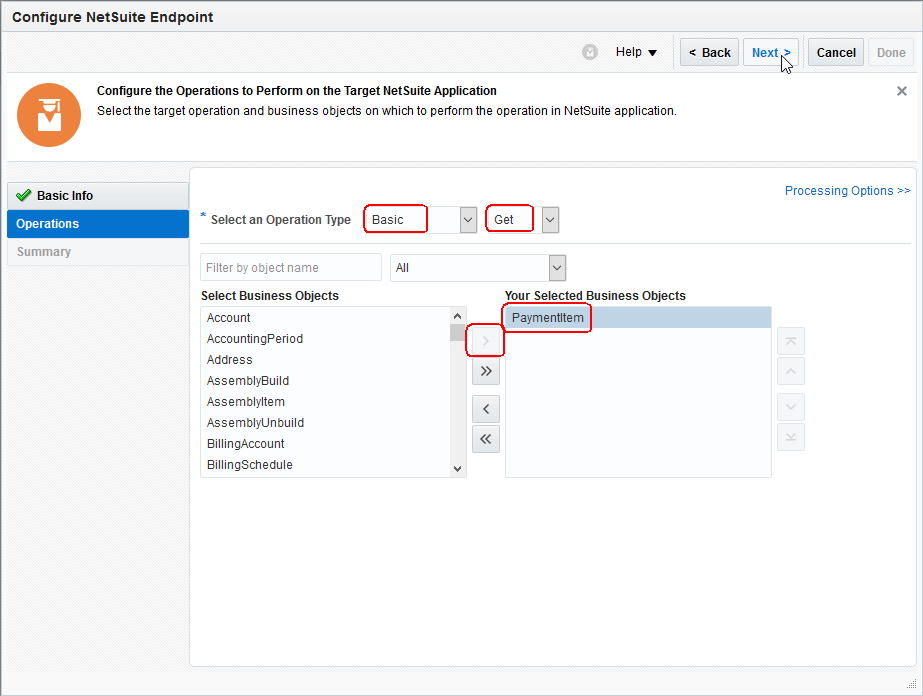
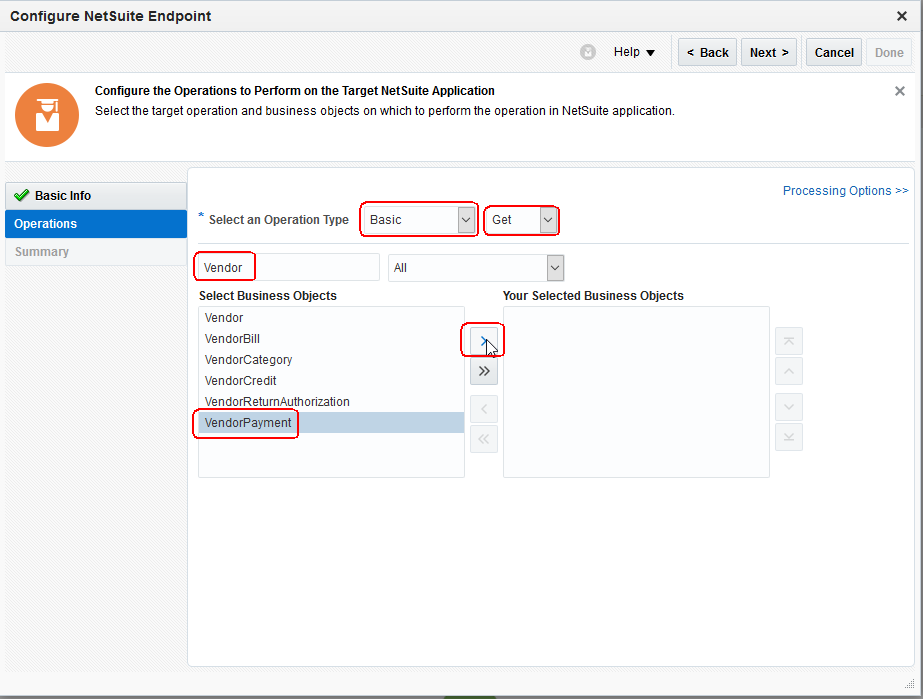
completed section 2.1

diff --git a/workshops/ics-netsuite-workshop/ics200.md b/workshops/ics-netsuite-workshop/ics200.md
@@ -255,17 +255,17 @@ Click and drag your REST connection identified by your assigned user (ie: `UserX
 
 ![](images/200/image030.png)
 
-**2.1.9** Select the *JSON Sample* radio button, and click on *<<< inline >>>* to enter a sample JSON request payload 
+**2.1.9** Select the *JSON Sample* radio button, and click on *<<< inline >>>* to enter a sample JSON request payload.
 
-Note 1: The **<<< inline >>>** link will not appear until you select the **JSON Sample** radio button
+Note 1: The **<<< inline >>>** link will not appear until you select the **JSON Sample** radio button.
 
-Note 2: The *JSON* radio button will automatically be selected in **type of payload** 
+Note 2: The *JSON* radio button will automatically be selected in **type of payload** after you enter the inline payload sample.
 
 ![](images/200/image031.png)
 
-**2.1.10** Enter the following JSON into the **Enter Sample JSON**, then click **Ok**
+**2.1.10** Copy then Paste the following JSON into the **Enter Sample JSON**, then click **Ok**
 
-Since we are looking up Vendor Payments in NetSuite, we need to pass in the Id for a record to query.
+Since we are looking up Vendor Payments in NetSuite, we will pass in the Id for a record to query.
 
 ```javascript
 {
@@ -275,13 +275,17 @@ Since we are looking up Vendor Payments in NetSuite, we need to pass in the Id f
 
 ![](images/200/image032.png)
 
-**2.1.11** Click on **Next >** to move on to the _Response_
+**2.1.11** Click on *Next >* to move on to the **Response** page
 
-**2.1.12** In the *Configure the Response Payload* screen, select **JSON Sample**, select **JSON** in **type of payload** and click on **<<< inline >>>** to enter sample JSON
+**2.1.12** In the **Configure the Response Payload** screen, select *JSON Sample*, and click on *<<< inline >>>* to enter sample JSON
+
+Note 1: The **<<< inline >>>** link will not appear until you select the **JSON Sample** radio button.
+
+Note 2: The *JSON* radio button will automatically be selected in **type of payload** after you enter the inline payload sample.
 
 ![](images/200/image033.png)
 
-**2.1.13** Enter the following JSON into the **Enter Sample JSON**, and click **Ok**
+**2.1.13** Copy then Paste the following JSON into the **Enter Sample JSON**, and click **Ok**
 
 ```javascript
 {
@@ -295,7 +299,7 @@ Since we are looking up Vendor Payments in NetSuite, we need to pass in the Id f
 
 ![](images/200/image034.png)
 
-**2.1.14** Back on the Response Page,  click **Next >**
+**2.1.14** Back on the Response Page,  click *Next >*
 
 ![](images/200/image035.png)
 
@@ -303,7 +307,7 @@ Since we are looking up Vendor Payments in NetSuite, we need to pass in the Id f
 
 ![](images/200/image036.png)
 
-**2.1.16** The ICS design canvas will now show the Trigger named _NetSuiteQuery_ along with the mapping and return nodes of the same name.
+**2.1.16** The ICS design canvas will now show the Trigger named **NetSuiteQuery** along with the mapping and return nodes of the same name.
 
 **2.1.17** It is a good practice to periodically save your work.  Select the *Save* button in the upper right corner.
 
@@ -311,9 +315,9 @@ Since we are looking up Vendor Payments in NetSuite, we need to pass in the Id f
 
 **2.1.18** Next, we will add the service invocation to NetSuite for the Query.  Select the *Invokes* menu on the left-hand navigation of the design canvas.
 
-Expand the list of NetSuite Triggers by clicking on the **NetSuite(X)** link (where `X` will be the number of NetSuite connections in the ICS instance - this will vary depending on how many others are running the workshop together).
+Expand the list of NetSuite Triggers by clicking on the *NetSuite(X)* link (where `X` will be the number of NetSuite connections in the ICS instance - this will vary depending on how many others are running the workshop together).
 
-Click and drag your NetSuite connection identified by your assigned user (ie: `UserXX NetSuite`) just below the `NetSuiteQuery` trigger.  
+Click and drag your NetSuite connection identified by your assigned user (ie: *UserXX NetSuite*) just below the `NetSuiteQuery` trigger.  
 
 (Note: After you click and start dragging your connection, the `Triggers` connection tray on the left hand side of the designer will become hidden)
 
@@ -323,7 +327,7 @@ Click and drag your NetSuite connection identified by your assigned user (ie: `U
 
 ![](images/200/image039.png)
 
-**2.1.20** Fill in the required values on **Basic Info** page, and click **Next >**
+**2.1.20** Fill in the required values on **Basic Info** page, and click *Next >*
 
 - **What do you want to call your endpoint?** _InvokeNetSuite_
 
@@ -331,21 +335,25 @@ Click and drag your NetSuite connection identified by your assigned user (ie: `U
 
 **2.1.21** On the **Operations** page, select the **Operation Type** of _Basic_ and the operation _Get_
 
-**2.1.22** Scroll through the list of NetSuite Business Objects, select _PaymentItem_, then shuttle it over to the selected objects by using the right shuttle arrow.
+**2.1.22** Enter _Vendor_ in the **Filter by object name** textbox, then select _VendorPayment_ in the list of NetSuite Business Objects
 
 ![](images/200/image041.png)
 
-**2.1.23** On the **Summary** page, observe the settings for the NetSuite invocation, then select the _Done_ button.
+**2.1.23** Next, shuttle it over to the selected objects by using the _right shuttle arrow_
 
 ![](images/200/image041a.png)
 
-**2.1.24** Now that the new invocation has been added, the orchestration may be too long to all fit on the design canvas.  To make it fit, select the _Zoom to Fit_ button in the row of design canvas tools in the upper right.
+**2.1.24** On the **Summary** page, observe the settings for the NetSuite invocation, then select the _Done_ button.
+
+![](images/200/image041b.png)
+
+**2.1.25** Now that the new invocation has been added, the orchestration may be too long to all fit on the design canvas.  To make it fit, select the _Zoom to Fit_ button in the row of design canvas tools in the upper right.
 
 ![](images/200/image042.png)
 
-**2.1.25** Now that the REST Trigger and service invocation to NetSuite have been configured in the orchestration, it is time to move on to creating the mappings.
+**2.1.26** Now that the REST Trigger and service invocation to NetSuite have been configured in the orchestration, it is time to move on to creating the mappings.
 
-**2.1.26** Select the _Save_ button in the upper right to save your work before creating the mappings.
+**2.1.27** Select the _Save_ button in the upper right to save your work before creating the mappings.
 
 ![](images/200/image043.png)
 

diff --git a/workshops/ics-netsuite-workshop/Home.md b/workshops/ics-netsuite-workshop/Home.md
@@ -8,4 +8,4 @@ Times are changing and things are getting simpler in the Cloud! At Oracle we hav
 This workshop will focus on using Oracle Integration Cloud Service (ICS) for integrating to the NetSuite ERP SaaS.  Oracle ICS delivers best in class “Hybrid” Integration. ICS is a simple and powerful integration platform in the cloud to maximize the value of your investments in SaaS and on-premises applications. It includes an intuitive web based integration designer for point and click integration between applications and a rich monitoring dashboard that provides real-time insight into the transactions, all running on a mature runtime platform on Oracle Public Cloud. ICS will help accelerate integration projects and significantly shorten the time-to-market through it's intuitive and simplified designer, an intelligent data mapper, and a library of adapters to connect to various applications.
 
 
-Open the navigation menu using the hamburger icon ( ![](images/menu.svg) ) in the menu bar to choose a lab guide and get started.
+Open the navigation menu using the hamburger icon (![](images/menu.svg)) in the menu bar to choose a lab guide and get started.
